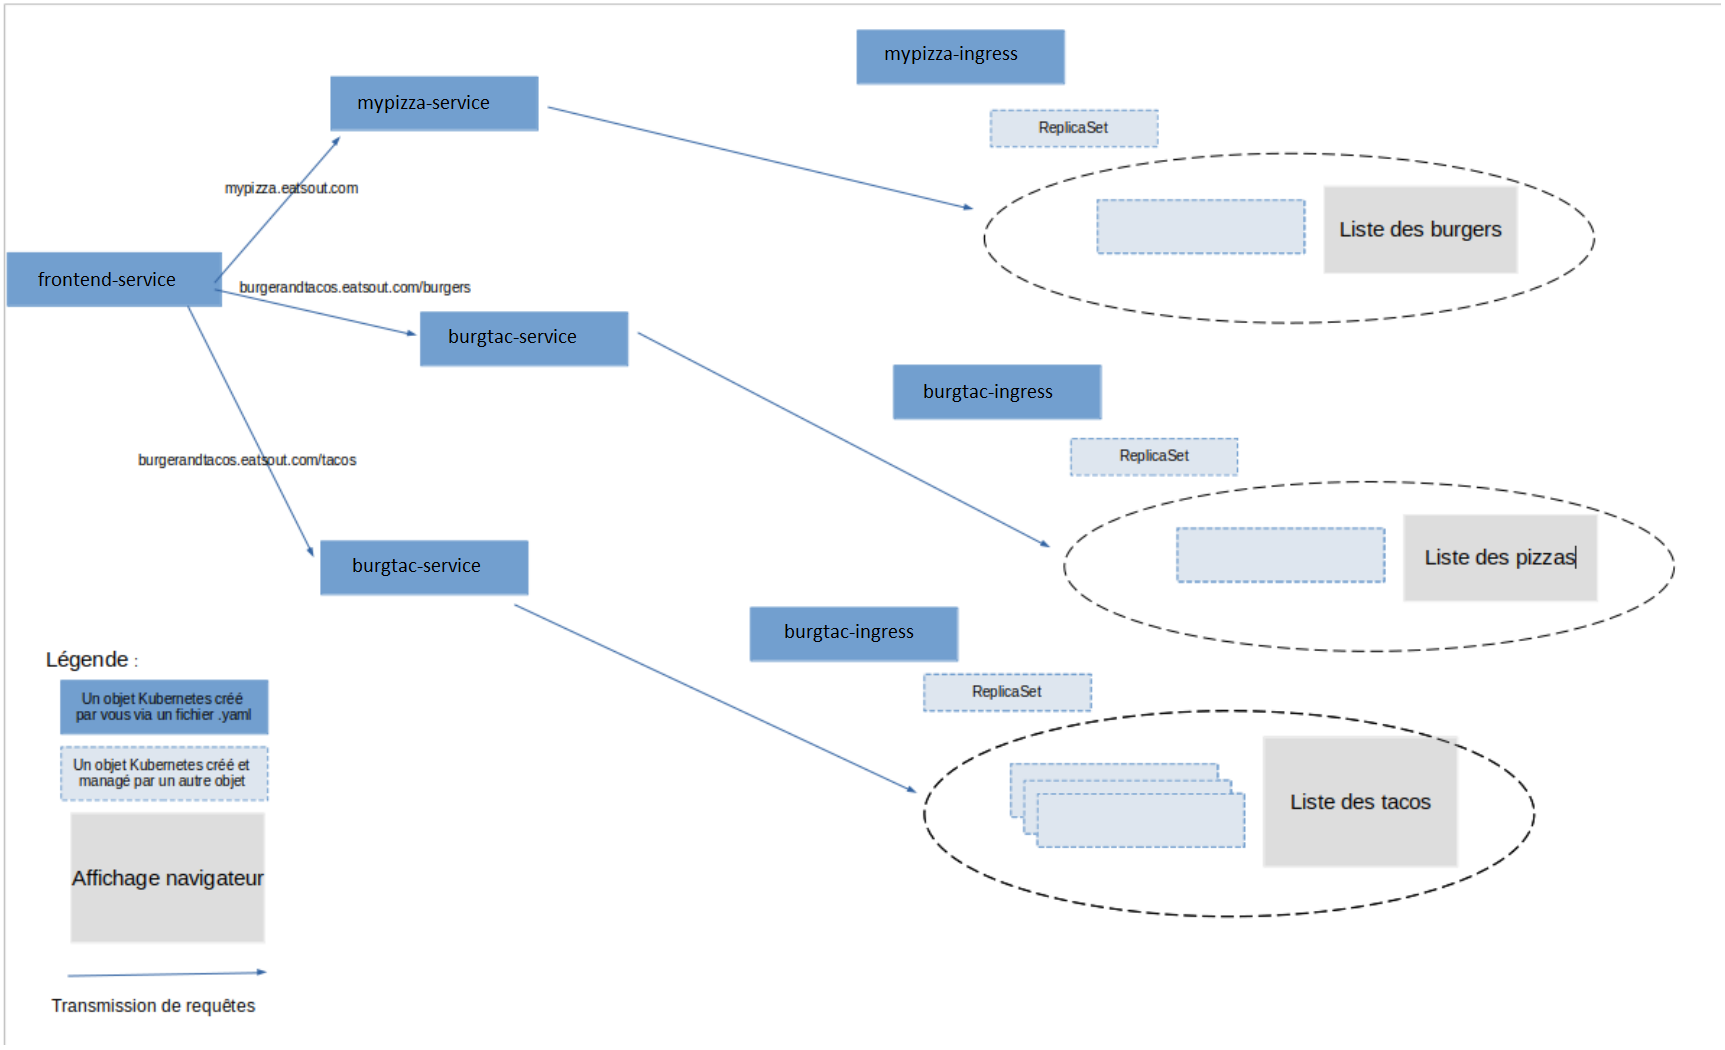
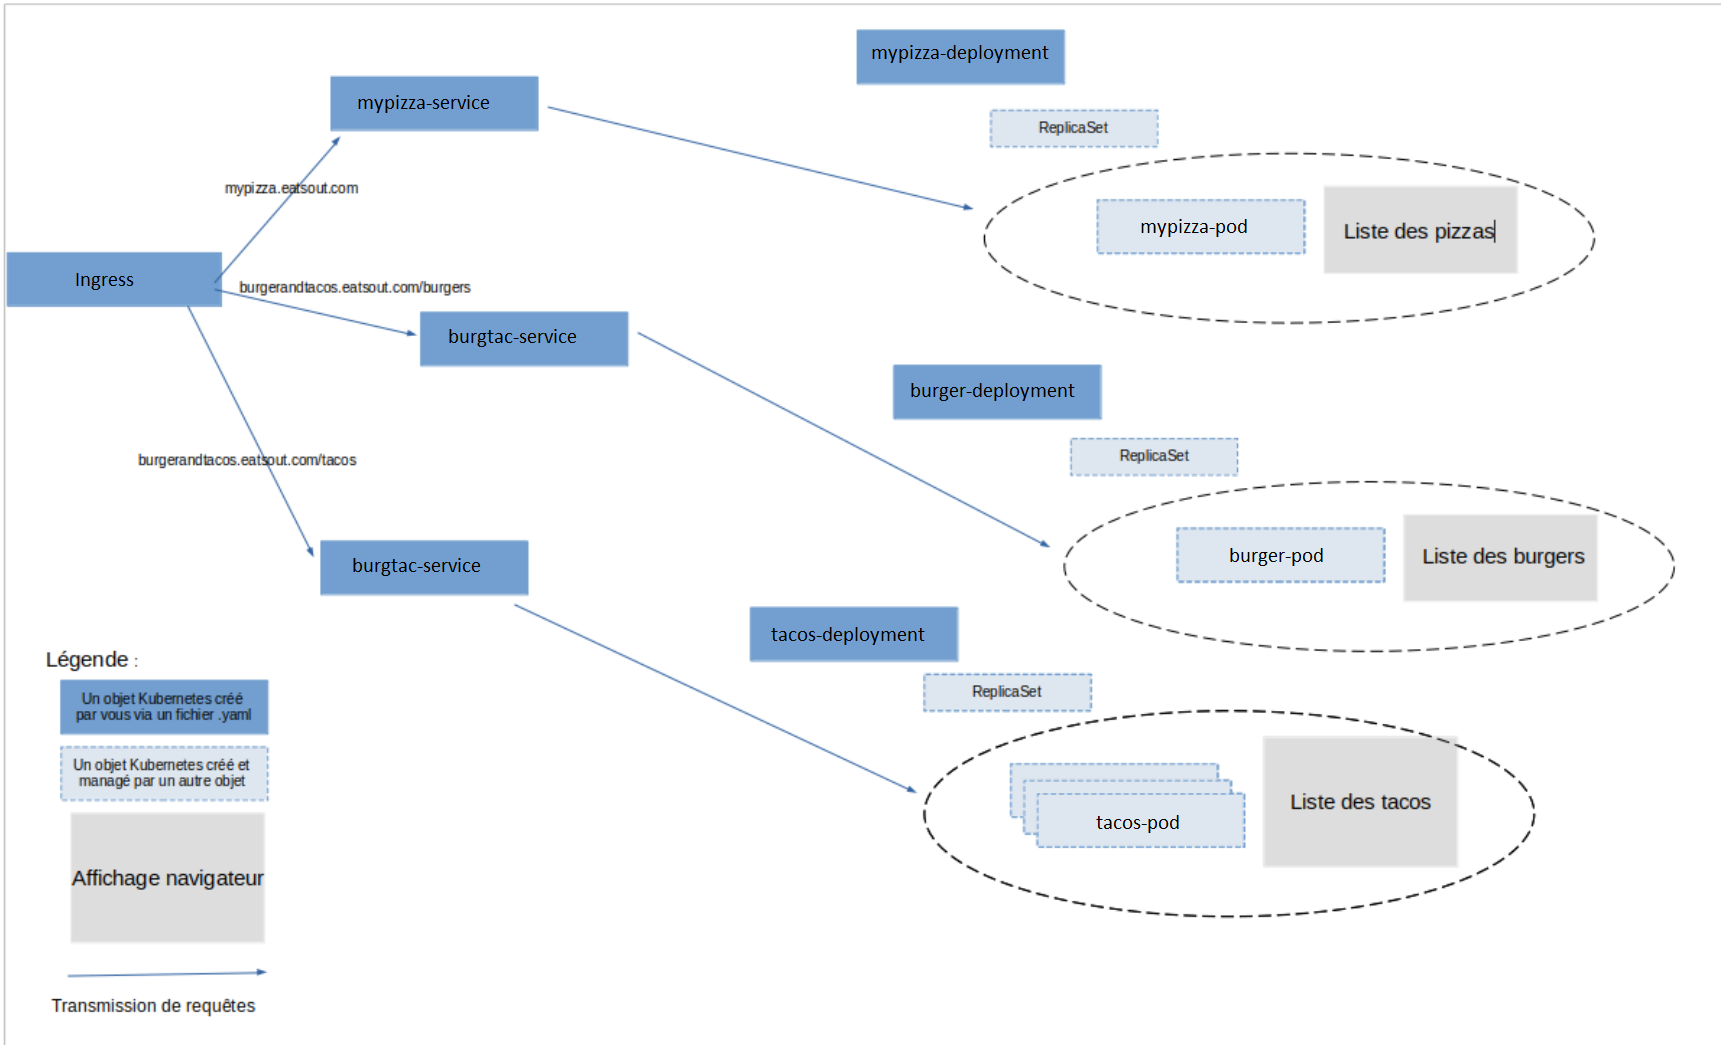
ADD schema (Q3)

diff --git a/burger/src/burgers.php b/burger/src/burgers.php
@@ -1,0 +1,12 @@
+<!DOCTYPE html>
+<html>
+
+<head>
+    <title>Magasin Burgers</title>
+</head>
+
+<body>
+    <h1>Magasin Burgers</h1>
+</body>
+
+</html>

diff --git a/pizza/src/pizza.php b/pizza/src/pizza.php
@@ -1,0 +1,12 @@
+<!DOCTYPE html>
+<html>
+
+<head>
+    <title>Magasin Pizzas</title>
+</head>
+
+<body>
+    <h1>Magasin Pizzas</h1>
+</body>
+
+</html>

diff --git a/tacos/src/tacos.php b/tacos/src/tacos.php
@@ -1,0 +1,12 @@
+<!DOCTYPE html>
+<html>
+
+<head>
+    <title>Magasin Tacos</title>
+</head>
+
+<body>
+    <h1>Magasin Tacos</h1>
+</body>
+
+</html>

diff --git a/README.md b/README.md
@@ -37,3 +37,7 @@ kubectl get pods -n ingress-nginx
 ```
 
 ## Question 3
+
+Complétion du schéma :
+
+![Alt text](/images/schema.png?raw=true "1")
